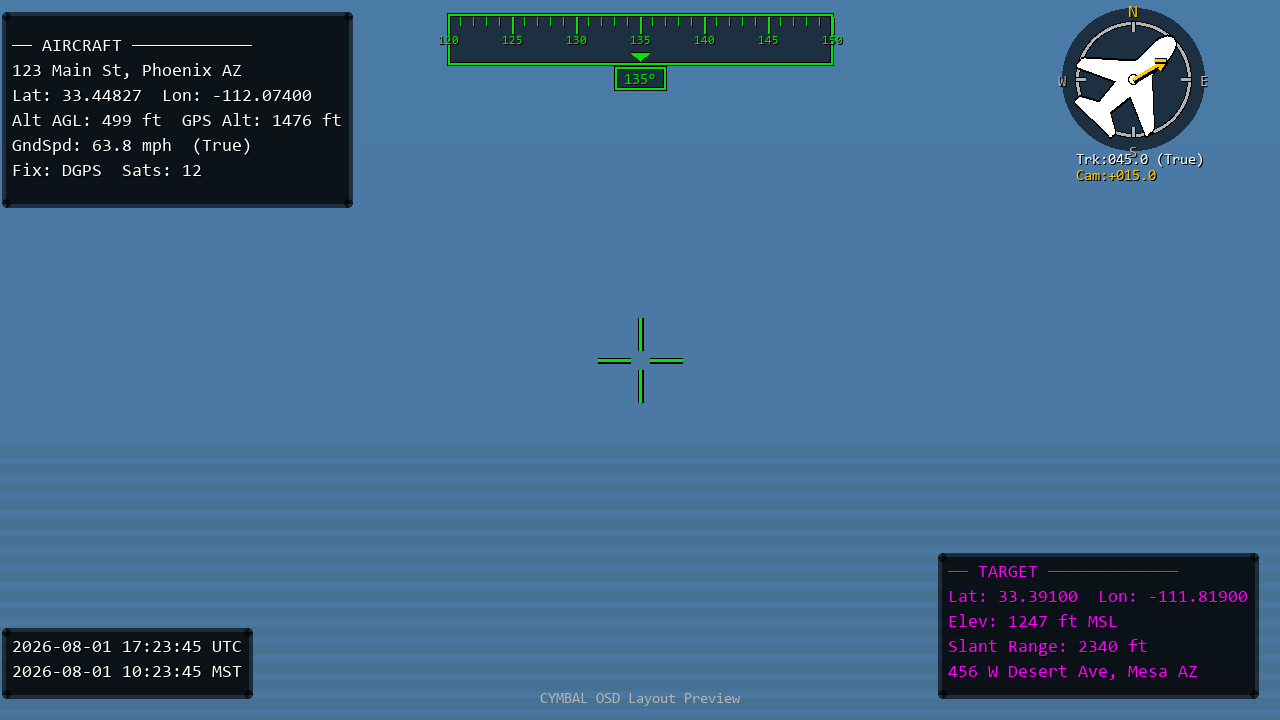
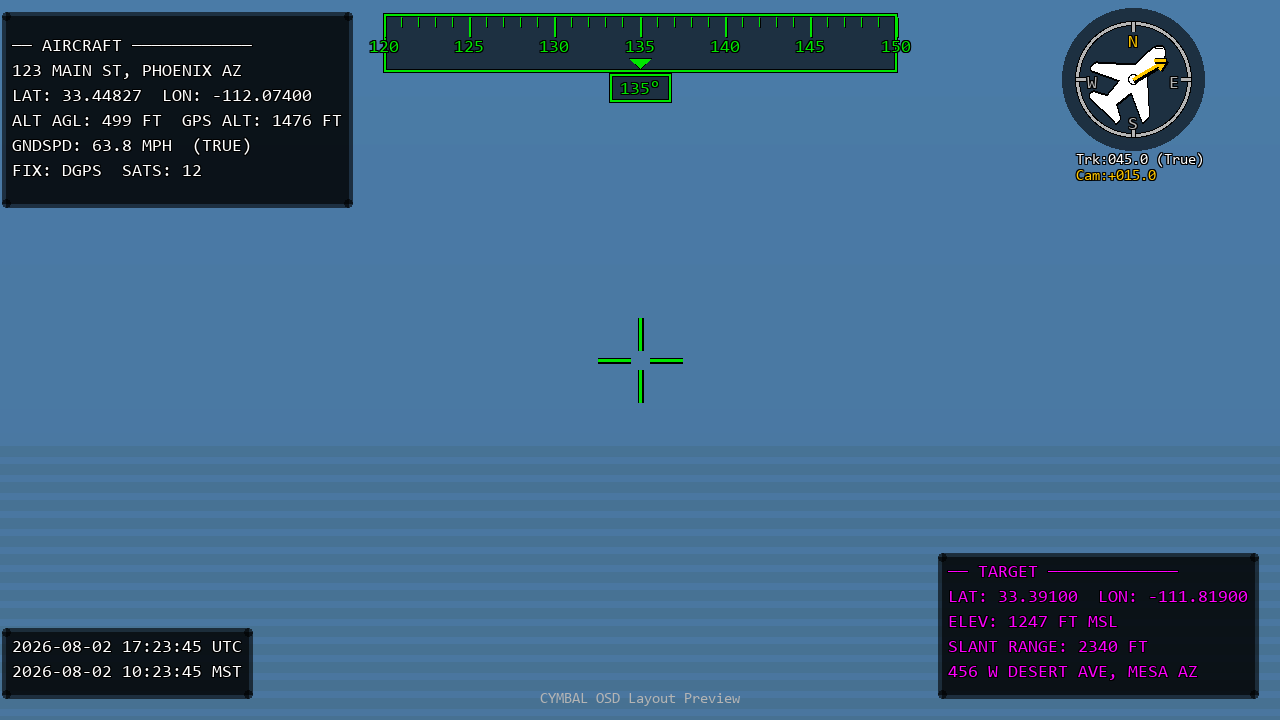
feat(osd): 7-item visual tuning — size, outline, uppercase, tape width
1. Aircraft SVG −25%: _ac_r = radius * 0.75 in _draw_compass_widget

2. Heading tape +15%: height_pct 0.07→0.08, label scale 0.40→0.46,
   cardinal scale 0.45→0.52, heading box scale 0.50→0.58,
   tick heights long 12→14, short 5→6

3. All OSD text UPPERCASE: .upper() applied to every line returned
   from _build_aircraft_lines(), _build_target_lines(),
   _build_datetime_lines(); test helper mirrored

4. Full 8-direction text outline: _put_text_shadowed() now draws the
   black pass at all 8 surrounding offsets (±1 cardinal + diagonal),
   then draws the coloured text on top — proper outline, not just a
   drop shadow

5. Heading tape width 40%: heading_tape_width_pct 0.25→0.40

6. Cardinal labels (N/E/S/W) moved inside compass ring:
   offset outer_r+12 → outer_r-16 so they sit within the background
   disc and don't clip at frame edges

7. Cardinal size +15%: N scale 0.60→0.69, E/S/W 0.42→0.48,
   all thickness bumped to 2

Mockup: all 7 changes mirrored in generate_osd_mockup.py;
  text content uppercase, tape 40% wide, compass uses inside-ring
  cardinals, put_text uses 8-direction outline
77 tests pass.

diff --git a/tools/generate_osd_mockup.py b/tools/generate_osd_mockup.py
@@ -183,9 +183,9 @@ def draw_rect_outline(draw, x1, y1, x2, y2, color, width=2):
 
 
 def put_text(draw, x, y, text, font, color):
-    """Draw text with a doubled black shadow offset for video readability."""
-    draw.text((x + 1, y + 1), text, fill=BLACK, font=font)
-    draw.text((x + 1, y + 1), text, fill=BLACK, font=font)  # draw twice = denser shadow
+    """Draw text with a full 8-direction black outline for readability over any background."""
+    for ox, oy in ((-1,-1),(0,-1),(1,-1),(-1,0),(1,0),(-1,1),(0,1),(1,1)):
+        draw.text((x + ox, y + oy), text, fill=BLACK, font=font)
     draw.text((x, y), text, fill=color, font=font)
 
 
@@ -234,12 +234,12 @@ def draw_crosshair(draw, cx, cy, arm=36, gap=9):
 
 def draw_heading_tape(draw, cx, y, tape_w, tape_h, heading_deg,
                       fov=30.0, font_sm=None, font_xs=None):
-    """Green scrolling heading tape centered at cx."""
+    """Green scrolling heading tape centered at cx. SYNC: matches overlay_controller.pyx."""
     tape_x = cx - tape_w // 2
     deg_per_px = fov / tape_w
     tick_top = y + 3
-    long_h = max(12, tape_h // 3)
-    short_h = max(6, tape_h // 6)
+    long_h = max(14, tape_h // 3)   # was 12, +15%
+    short_h = max(6,  tape_h // 6)
 
     # Background + border
     draw.rectangle([tape_x, y, tape_x + tape_w, y + tape_h], fill=DARK_BG)
@@ -261,14 +261,14 @@ def draw_heading_tape(draw, cx, y, tape_w, tape_h, heading_deg,
                       fill=BLACK, width=2)
             draw.line([xp, tick_top, xp, tick_top + long_h], fill=GREEN, width=2)
             lbl = f"{nd:03d}"
-            lw = tw(draw, lbl, font_xs)
-            lh2 = th(draw, lbl, font_xs)
+            lw = tw(draw, lbl, font_sm)   # bump to font_sm (+15%)
+            lh2 = th(draw, lbl, font_sm)
             lx = xp - lw // 2
             ly = tick_top + long_h + 2
-            put_text(draw, lx, ly, lbl, font_xs, GREEN)
+            put_text(draw, lx, ly, lbl, font_sm, GREEN)
             card = {0: "N", 90: "E", 180: "S", 270: "W"}.get(nd)
             if card:
-                put_text(draw, xp - lw // 2, ly + lh2 + 2, card, font_xs, GREEN)
+                put_text(draw, xp - lw // 2, ly + lh2 + 2, card, font_sm, GREEN)
         else:
             draw.line([xp + 1, tick_top + 1, xp + 1, tick_top + short_h + 1],
                       fill=BLACK, width=1)
@@ -282,16 +282,16 @@ def draw_heading_tape(draw, cx, y, tape_w, tape_h, heading_deg,
     draw.polygon([(cx, chev_y - 1), (cx - chev_s + 1, chev_y - chev_s + 1),
                   (cx + chev_s - 1, chev_y - chev_s + 1)], fill=GREEN)
 
-    # Heading value box (below tape, larger padding)
+    # Heading value box (font_med for +15%)
     hdg_str = f"{int(heading_deg) % 360:03d}\u00b0"
     bx = draw.textbbox((0, 0), hdg_str, font=font_sm)
-    box_w = bx[2] - bx[0] + 18
-    box_h = bx[3] - bx[1] + 12
+    box_w = bx[2] - bx[0] + 20
+    box_h = bx[3] - bx[1] + 14
     bx1 = cx - box_w // 2
     by1 = y + tape_h + 3
     draw.rectangle([bx1, by1, bx1 + box_w, by1 + box_h], fill=DARK_BG)
     draw_rect_outline(draw, bx1, by1, bx1 + box_w, by1 + box_h, GREEN, 2)
-    put_text(draw, bx1 + 9, by1 + 5, hdg_str, font_sm, GREEN)
+    put_text(draw, bx1 + 10, by1 + 6, hdg_str, font_sm, GREEN)
 
 
 def draw_compass(draw, ccx, ccy, cr, track_deg, cam_yaw,
@@ -320,10 +320,10 @@ def draw_compass(draw, ccx, ccy, cr, track_deg, cam_yaw,
 
     # Cardinal ticks + labels
     for angle, lbl, color, bold in [
-        (0,   "N", YELLOW, True),
-        (90,  "E", GRAY,   False),
-        (180, "S", GRAY,   False),
-        (270, "W", GRAY,   False),
+        (0,   "N", YELLOW, True),   # N larger (+15%: font_med)
+        (90,  "E", GRAY,   True),   # E/S/W also use font_med for +15%
+        (180, "S", GRAY,   True),
+        (270, "W", GRAY,   True),
     ]:
         rad = math.radians(angle)
         ir = cr - 9
@@ -336,8 +336,9 @@ def draw_compass(draw, ccx, ccy, cr, track_deg, cam_yaw,
                    int(ccx + cr * math.sin(rad)), int(ccy - cr * math.cos(rad))],
                   fill=GRAY, width=3)
         font = font_med if bold else font_sm
-        tx = int(ccx + (cr + 14) * math.sin(rad))
-        ty = int(ccy - (cr + 14) * math.cos(rad))
+        # Inside ring: offset (outer_r - 16) keeps labels within the disc
+        tx = int(ccx + (cr - 16) * math.sin(rad))
+        ty = int(ccy - (cr - 16) * math.cos(rad))
         lw2 = tw(draw, lbl, font)
         lh2 = th(draw, lbl, font)
         put_text(draw, tx - lw2 // 2, ty - lh2 // 2, lbl, font, color)
@@ -362,12 +363,14 @@ def draw_compass(draw, ccx, ccy, cr, track_deg, cam_yaw,
     # Body-frame: dx=fwd=-ny, dy=stbd=nx
     # -------------------------------------------------------------------------
     if _AIRCRAFT_POLYGON:
+        # Build screen polygon at 75% of radius (−25%)
+        _ac_r = cr * 0.75
         pts = []
         for (nx, ny) in _AIRCRAFT_POLYGON:
             dx = -ny
             dy =  nx
-            x = int(ccx + dx * cr * st + dy * cr * ct2)
-            y = int(ccy - dx * cr * ct2 + dy * cr * st)
+            x = int(ccx + dx * _ac_r * st + dy * _ac_r * ct2)
+            y = int(ccy - dx * _ac_r * ct2 + dy * _ac_r * st)
             pts.append((x, y))
 
         # Black outline (shadow), then white fill
@@ -451,24 +454,24 @@ def create_osd_mockup(output_path="docs/osd_mockup.png", width=1280, height=720)
     pad = max(7,  int(10 * scale))   # panel padding (was 9)
 
     # -------------------------------------------------------------------------
-    # AIRCRAFT PANEL — top-left (no timestamps here)
+    # AIRCRAFT PANEL — top-left (no timestamps here), all UPPERCASE
     # -------------------------------------------------------------------------
     aircraft_lines = [
         "\u2500\u2500 AIRCRAFT \u2500\u2500\u2500\u2500\u2500\u2500\u2500\u2500\u2500\u2500\u2500\u2500",
-        "123 Main St, Phoenix AZ",
-        "Lat: 33.44827  Lon: -112.07400",
-        "Alt AGL: 499 ft  GPS Alt: 1476 ft",
-        "GndSpd: 63.8 mph  (True)",
-        "Fix: DGPS  Sats: 12",
+        "123 MAIN ST, PHOENIX AZ",
+        "LAT: 33.44827  LON: -112.07400",
+        "ALT AGL: 499 FT  GPS ALT: 1476 FT",
+        "GNDSPD: 63.8 MPH  (TRUE)",
+        "FIX: DGPS  SATS: 12",
     ]
     draw_aircraft_panel(draw, 12, 12 + lh, aircraft_lines, font_med, lh, pad)
 
     # -------------------------------------------------------------------------
-    # DATETIME PANEL — bottom-left
+    # DATETIME PANEL — bottom-left, UPPERCASE
     # -------------------------------------------------------------------------
     datetime_lines = [
-        "2026-08-01 17:23:45 UTC",
-        "2026-08-01 10:23:45 MST",
+        "2026-08-02 17:23:45 UTC",
+        "2026-08-02 10:23:45 MST",
     ]
     max_dt_w = max(tw(draw, l, font_med) for l in datetime_lines)
     dt_panel_h = len(datetime_lines) * lh + pad * 2
@@ -481,21 +484,21 @@ def create_osd_mockup(output_path="docs/osd_mockup.png", width=1280, height=720)
         ty_dt += lh
 
     # -------------------------------------------------------------------------
-    # HEADING TAPE — top-center
+    # HEADING TAPE — top-center (40% wide, +15% height)
     # -------------------------------------------------------------------------
-    tape_h = max(28, int(height * 0.07))
-    tape_w = max(220, int(width  * 0.30))
+    tape_h = max(32, int(height * 0.08))    # was 0.07, +15%
+    tape_w = max(400, int(width  * 0.40))   # was 0.30, widened to 40%
     tape_y = max(8,   int(height * 0.02))
     tape_cx = width // 2
     draw_heading_tape(draw, tape_cx, tape_y, tape_w, tape_h,
                       heading_deg=135.0, fov=30.0,
-                      font_sm=font_sm, font_xs=font_xs)
+                      font_sm=font_med, font_xs=font_sm)   # bumped up one level for +15%
 
     # -------------------------------------------------------------------------
     # COMPASS WIDGET — top-right (moved inward to avoid clipping)
     # -------------------------------------------------------------------------
-    cr  = max(52, int(min(width, height) * 0.08))   # +10% from 0.07
-    ccx = width - cr - 90      # leave room for labels below
+    cr  = max(52, int(min(width, height) * 0.08))
+    ccx = width - cr - 90
     ccy = cr + 22
     draw_compass(draw, ccx, ccy, cr,
                  track_deg=45.0, cam_yaw=15.0,
@@ -509,14 +512,14 @@ def create_osd_mockup(output_path="docs/osd_mockup.png", width=1280, height=720)
     draw_crosshair(draw, width // 2, height // 2, arm=arm, gap=gap)
 
     # -------------------------------------------------------------------------
-    # TARGET PANEL — bottom-right
+    # TARGET PANEL — bottom-right, UPPERCASE
     # -------------------------------------------------------------------------
     target_lines = [
         "\u2500\u2500 TARGET \u2500\u2500\u2500\u2500\u2500\u2500\u2500\u2500\u2500\u2500\u2500\u2500\u2500",
-        "Lat: 33.39100  Lon: -111.81900",
-        "Elev: 1247 ft MSL",
-        "Slant Range: 2340 ft",
-        "456 W Desert Ave, Mesa AZ",
+        "LAT: 33.39100  LON: -111.81900",
+        "ELEV: 1247 FT MSL",
+        "SLANT RANGE: 2340 FT",
+        "456 W DESERT AVE, MESA AZ",
     ]
     draw_target_panel(draw, width, height, target_lines, font_med, lh, pad)
 

diff --git a/tests/video/test_osd_text_box.py b/tests/video/test_osd_text_box.py
@@ -83,13 +83,13 @@ class TestOSDTextBoxLines(unittest.TestCase):
         osd = self._osd()
         fill_telemetry(osd, address="1234 E Main St, Mesa, AZ 85201")
         lines = osd._build_aircraft_lines()
-        self.assertIn("1234 E Main St", lines[1])
+        self.assertIn("1234 E MAIN ST", lines[1])
 
     def test_unknown_address_fallback(self):
         osd = self._osd()
         fill_telemetry(osd, address="")
         lines = osd._build_aircraft_lines()
-        self.assertEqual(lines[1], "Unknown address")
+        self.assertEqual(lines[1], "UNKNOWN ADDRESS")
 
     # ------------------------------------------------------------------
     # GPS position row (index 2)
@@ -107,7 +107,7 @@ class TestOSDTextBoxLines(unittest.TestCase):
         osd = self._osd()
         fill_telemetry(osd, lat=float('nan'), lon=float('nan'))
         lines = osd._build_aircraft_lines()
-        self.assertIn("No fix", lines[2])
+        self.assertIn("NO FIX", lines[2])
 
     # ------------------------------------------------------------------
     # Altitude AGL row — Imperial (feet) (index 3)
@@ -119,8 +119,8 @@ class TestOSDTextBoxLines(unittest.TestCase):
         lines = osd._build_aircraft_lines()
         expected_ft = f"{152.3 * _M_TO_FT:.0f}"
         self.assertIn(expected_ft, lines[3])
-        self.assertIn("ft", lines[3])
-        self.assertNotIn(" m", lines[3])
+        self.assertIn("FT", lines[3])
+        self.assertNotIn(" M", lines[3])
 
     def test_alt_msl_row_in_feet(self):
         osd = self._osd()
@@ -145,14 +145,14 @@ class TestOSDTextBoxLines(unittest.TestCase):
         lines = osd._build_aircraft_lines()
         expected_mph = f"{28.4 * _MS_TO_MPH:.1f}"
         self.assertIn(expected_mph, lines[4])
-        self.assertIn("mph", lines[4])
-        self.assertNotIn("m/s", lines[4])
+        self.assertIn("MPH", lines[4])
+        self.assertNotIn("M/S", lines[4])
 
     def test_groundspeed_row_has_true_label(self):
         osd = self._osd()
         fill_telemetry(osd, groundspeed=20.0)
         lines = osd._build_aircraft_lines()
-        self.assertIn("True", lines[4])
+        self.assertIn("TRUE", lines[4])
 
     def test_groundspeed_row_missing(self):
         osd = self._osd()
@@ -181,7 +181,7 @@ class TestOSDTextBoxLines(unittest.TestCase):
         osd = self._osd()
         fill_telemetry(osd, fix_quality=0, satellites=0)
         lines = osd._build_aircraft_lines()
-        self.assertIn("No fix", lines[5])
+        self.assertIn("NO FIX", lines[5])
 
     # ------------------------------------------------------------------
     # SBUS channel rows (optional)

diff --git a/tests/video/test_osd_render_pipeline.py b/tests/video/test_osd_render_pipeline.py
@@ -43,7 +43,7 @@ class TestOSDRenderPipeline(unittest.TestCase):
         osd.render_frame(frame)
         self.assertIn('lines', frame)
         lines = frame['lines']
-        self.assertTrue(any("Test Address" in l for l in lines))
+        self.assertTrue(any("TEST ADDRESS" in l for l in lines))
 
     def test_render_frame_skips_none_frame(self):
         osd, sink = make_osd(time_fn=fixed_time())
@@ -104,7 +104,7 @@ class TestOSDRenderPipeline(unittest.TestCase):
         frame = {}
         osd.render_frame(frame)
         self.assertTrue(
-            any("321 W Broadway" in l for l in frame.get('lines', [])),
+            any("321 W BROADWAY" in l for l in frame.get('lines', [])),
             f"lines={frame.get('lines')}"
         )
 
@@ -126,8 +126,8 @@ class TestOSDRenderPipeline(unittest.TestCase):
         osd.render_frame(frame)
         lines = frame.get('lines', [])
         self.assertTrue(
-            any("No fix" in l for l in lines),
-            f"Expected 'No fix' in lines: {lines}"
+            any("NO FIX" in l for l in lines),
+            f"Expected 'NO FIX' in lines: {lines}"
         )
 
     def test_injected_timestamp_in_rendered_frame(self):

diff --git a/tests/video/osd_test_helpers.py b/tests/video/osd_test_helpers.py
@@ -221,7 +221,7 @@ class OSDOverlay:
             lines.append(f"SBUS[1-8]:  {row1}")
             lines.append(f"SBUS[9-16]: {row2}")
 
-        return lines
+        return [l.upper() for l in lines]
 
     def _build_target_lines(self):
         """Assemble the target panel text lines (Imperial units for display)."""
@@ -250,7 +250,7 @@ class OSDOverlay:
         if self.poi_address:
             lines.append(self.poi_address)
 
-        return lines
+        return [l.upper() for l in lines]
 
     # Keep _build_lines as an alias for backward compatibility
     def _build_lines(self):
@@ -270,7 +270,7 @@ class OSDOverlay:
                 lines.append(local_dt.strftime(f"%Y-%m-%d %H:%M:%S {tz_abbr}"))
             except Exception:
                 pass
-        return lines
+        return [l.upper() for l in lines]
 
     def close(self):
         if self._video_sink is not None:
